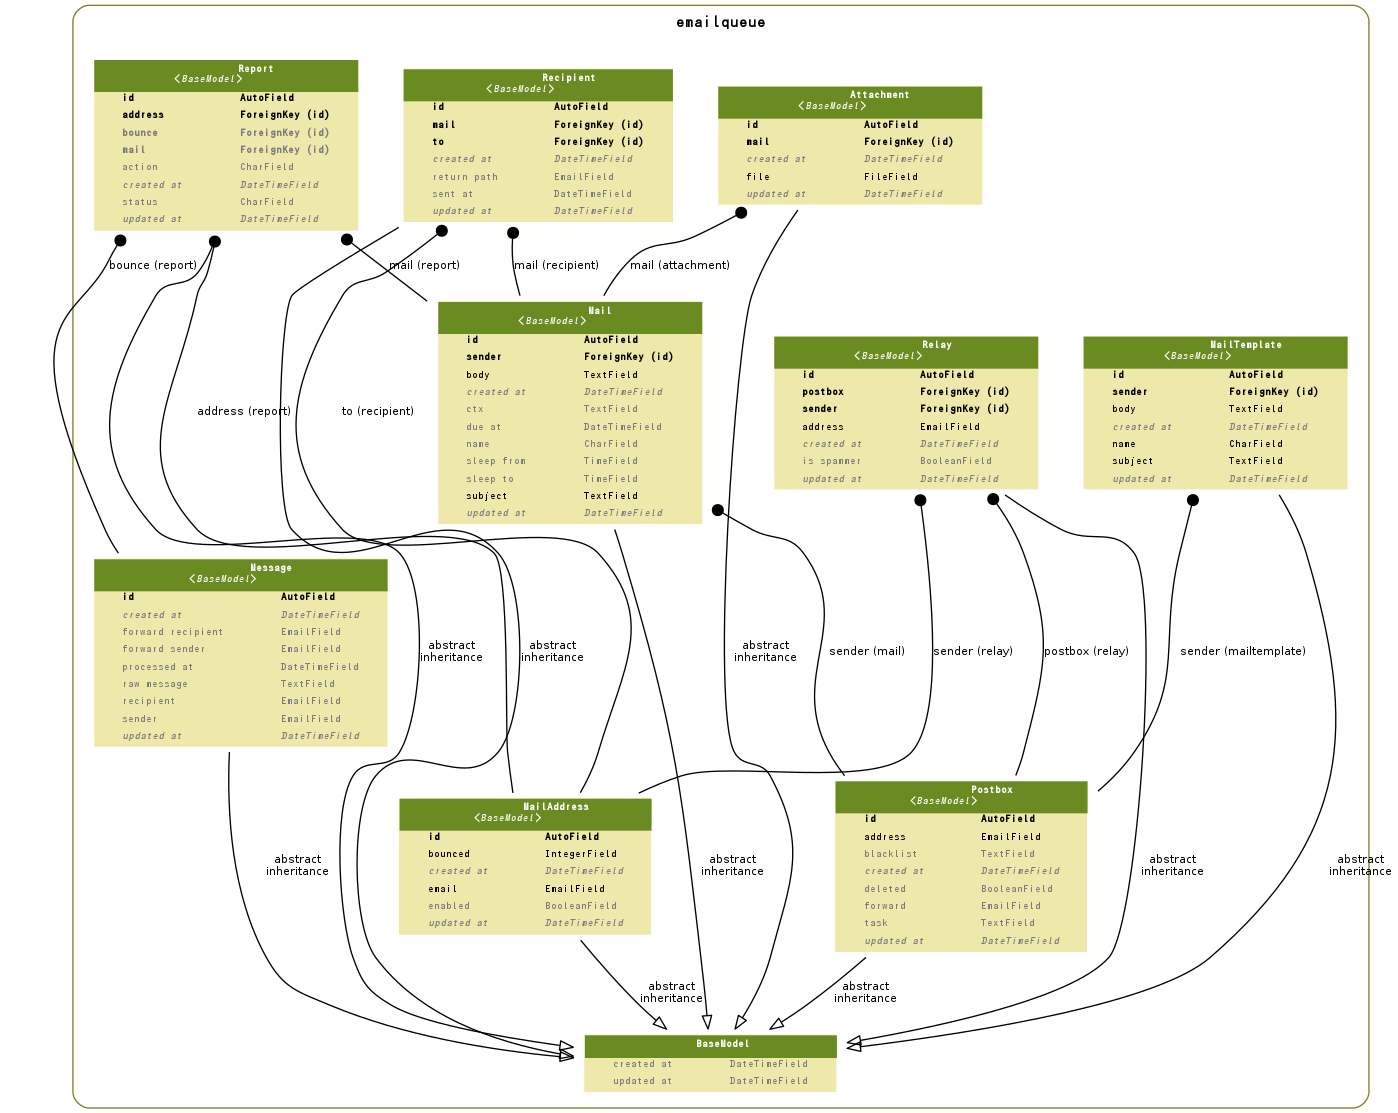
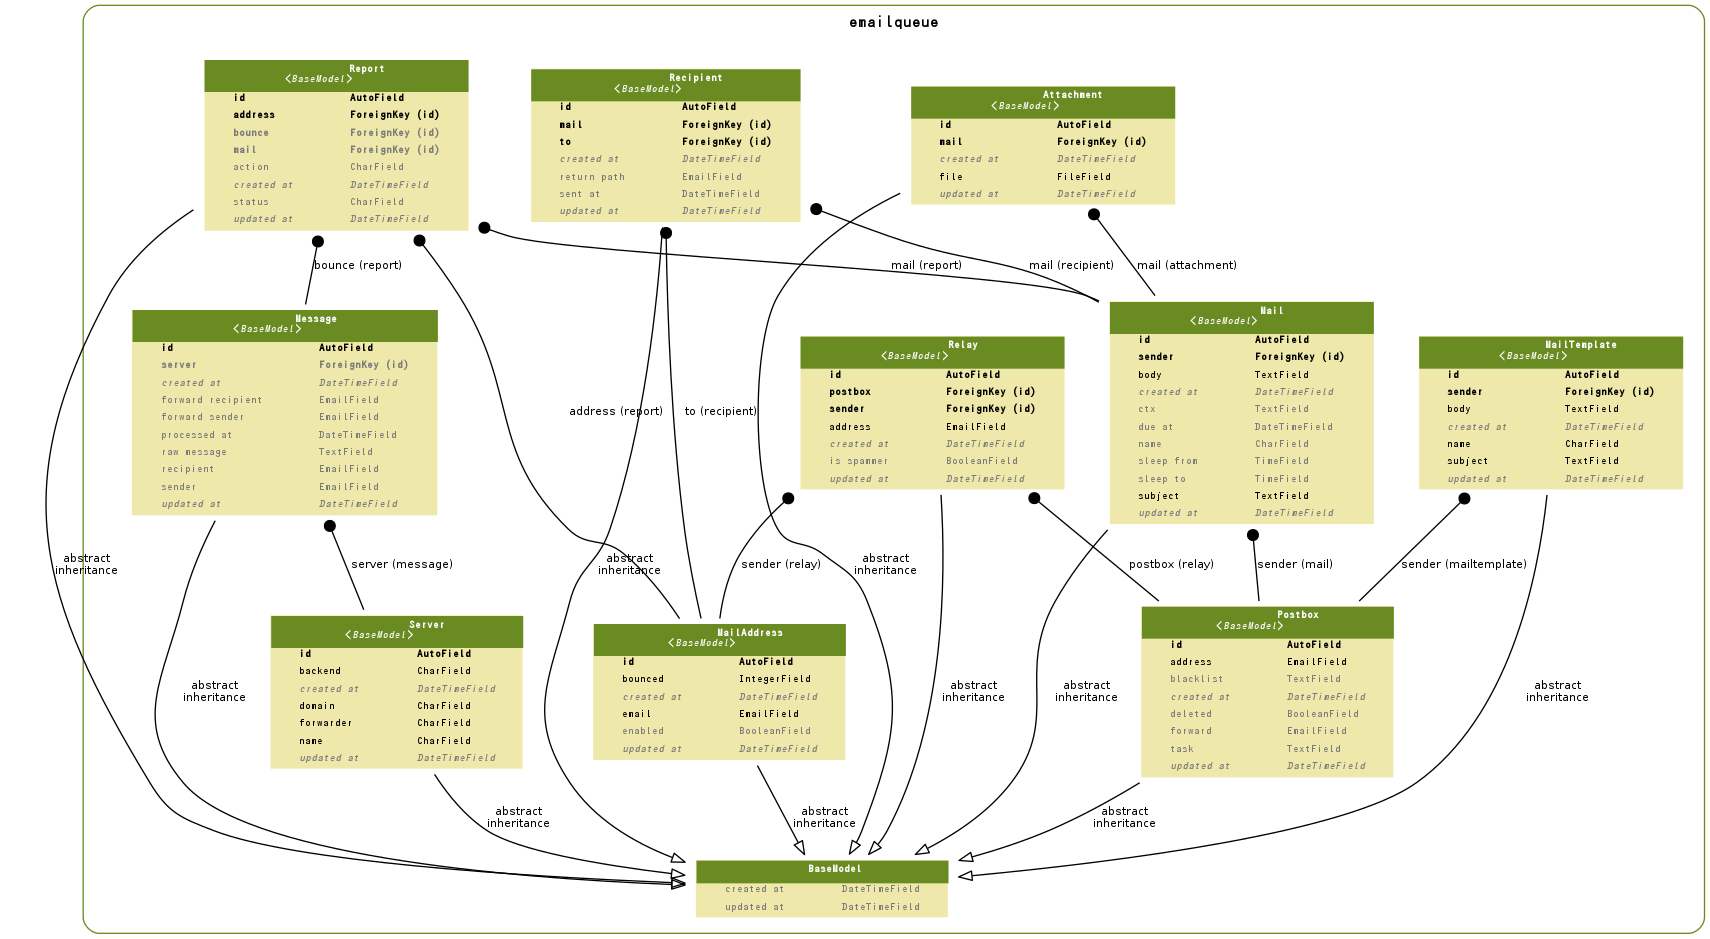
Documents for changed models

diff --git a/docs/source/models/emailqueue.rst b/docs/source/models/emailqueue.rst
@@ -251,6 +251,11 @@ Message:Message
          - datetime
          - 
 
+    *    - server
+         - Recipient Server
+         - integer
+         - 
+
     *    - sender
          - 送信者
          - varchar(100)
@@ -484,6 +489,54 @@ Report:Report
          - DSN Status Help
 
 .. include:: emailqueue.models.Report.rst
+
+.. _emailqueue.models.Server:
+
+Server:Server
+==========================
+
+.. autoclass:: emailqueue.models.Server
+    :members:
+
+
+.. list-table::
+
+    *    - id
+         - ID
+         - integer AUTO_INCREMENT
+         - 
+
+    *    - created_at
+         - 作成日時
+         - datetime
+         - 
+
+    *    - updated_at
+         - 更新日時
+         - datetime
+         - 
+
+    *    - name
+         - メールサービス名
+         - varchar(50)
+         - 
+
+    *    - domain
+         - ドメイン名
+         - varchar(50)
+         - 
+
+    *    - backend
+         - バックエンド
+         - varchar(100)
+         - 
+
+    *    - forwarder
+         - Mail Forwarder
+         - varchar(100)
+         - 
+
+.. include:: emailqueue.models.Server.rst
 
 
 .. _emailqueue.models.er:

diff --git a/docs/source/models/emailsmtp.rst b/docs/source/models/emailsmtp.rst
@@ -46,6 +46,16 @@ Server:SMTPサーバー
          - varchar(100)
          - 
 
+    *    - forwarder
+         - Mail Forwarder
+         - varchar(100)
+         - 
+
+    *    - server_ptr
+         - server ptr
+         - integer
+         - 
+
     *    - wait_every
          - 送信ごとの待ち時間
          - integer

diff --git a/docs/source/index.rst b/docs/source/index.rst
@@ -14,6 +14,9 @@ models
 
     tutorial
 
+    emailqueue.tasks
+    emailqueue.utils
+
     emailsmtp.tasks
     emailsmtp.forms
     emailsmtp.management
@@ -22,6 +25,7 @@ models
     models/emailsmtp
     models/emailses
 
+    terms
 
 Indices and tables
 ==================
